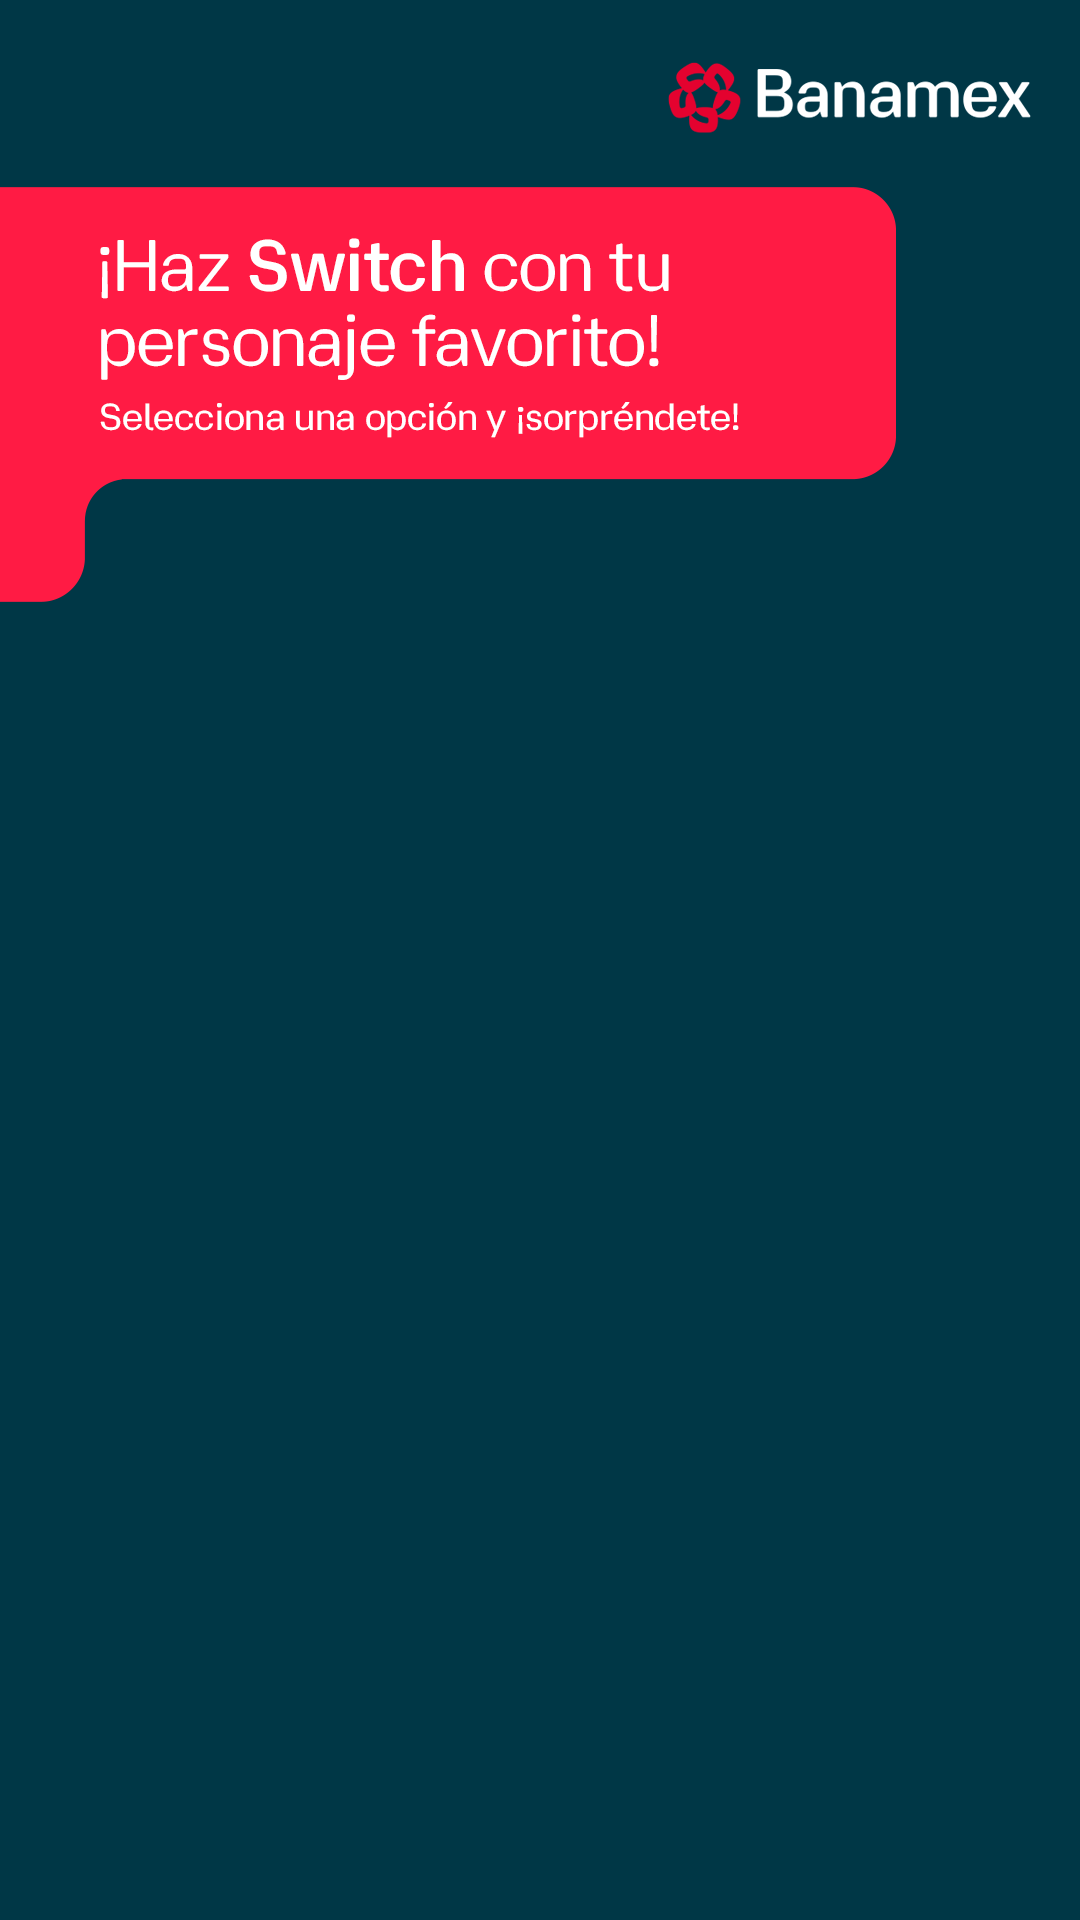
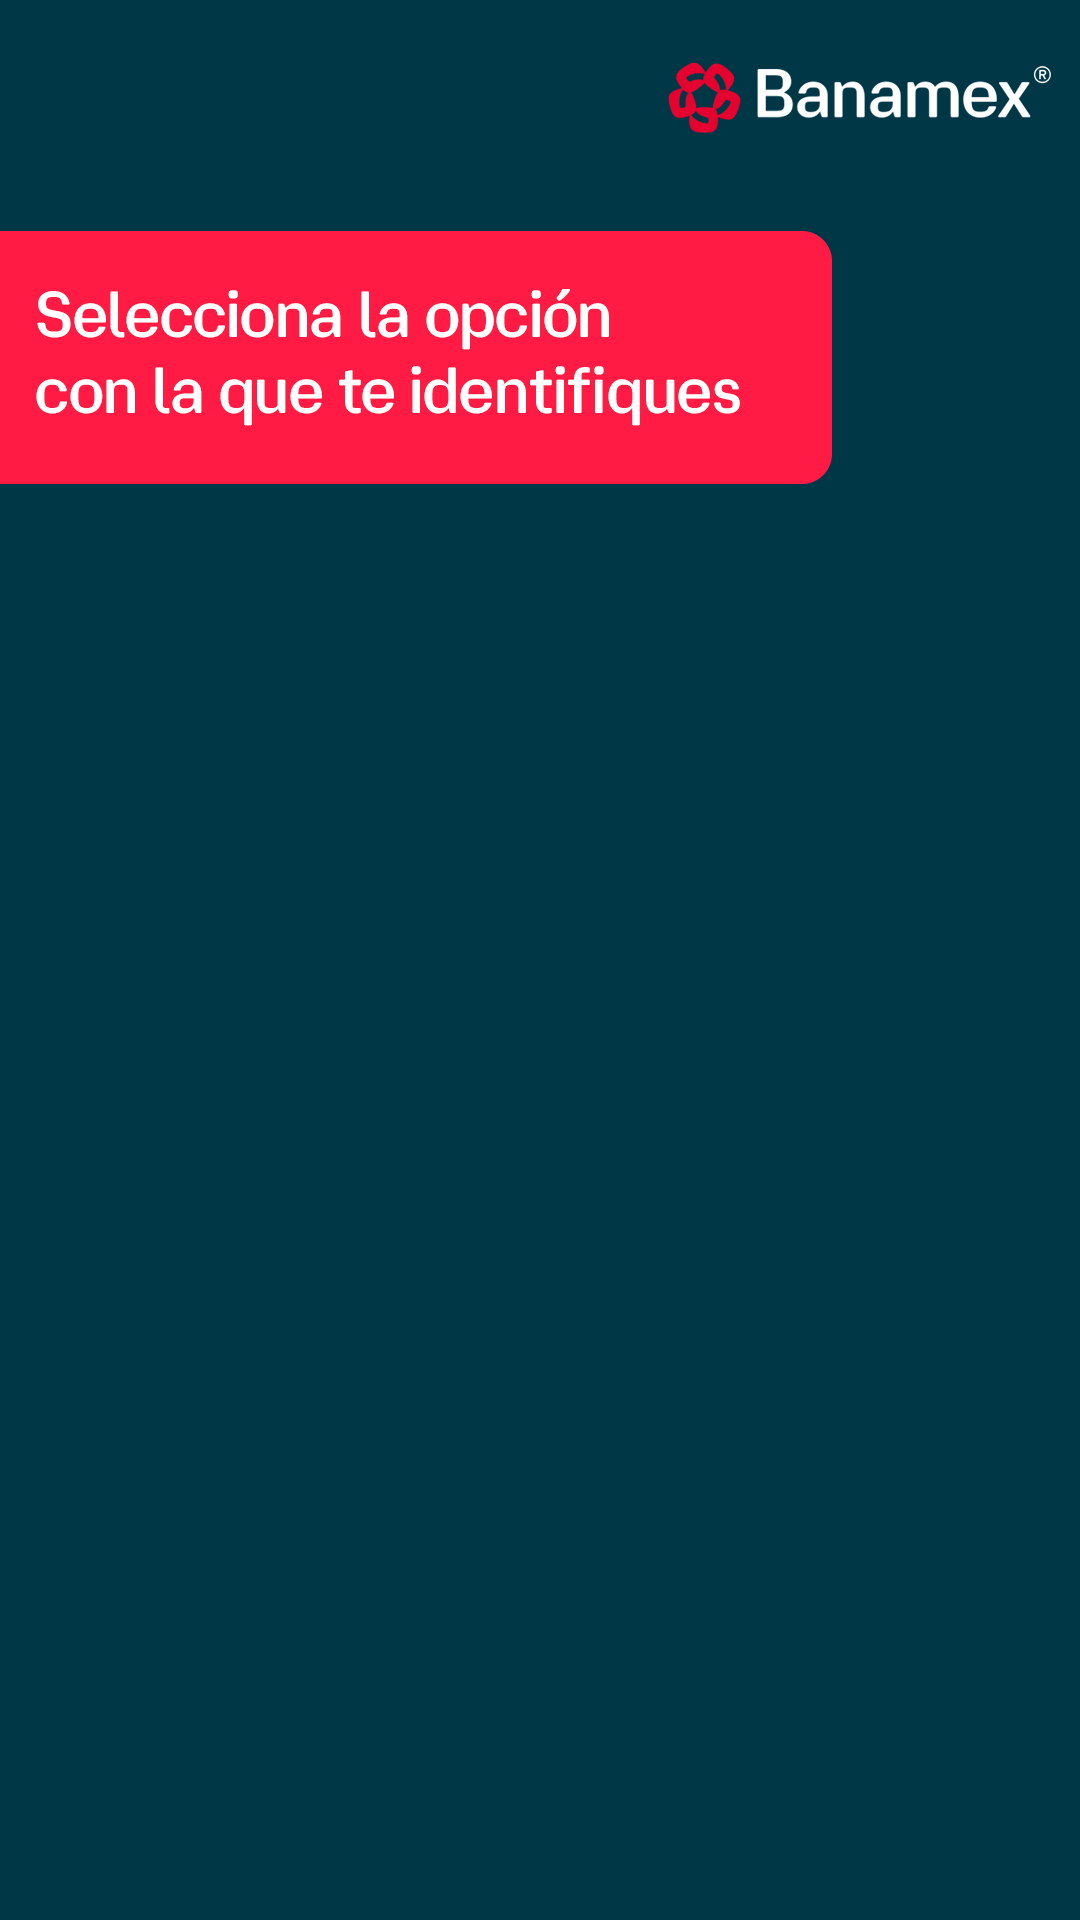
Primer cambio para Tina Turner

Changed region(s): [[0.0, 0.0938, 0.8556, 0.25], [0.0, 0.25, 0.0917, 0.3125]]

diff --git a/templates/select_character.html b/templates/select_character.html
@@ -35,44 +35,44 @@
       background:url("{{ url_for('static', filename='images/Pantalla_selecciona.png') }}") center/cover no-repeat;
     }
 
-    /* === CENTRADO REAL DEL GRID ===
-       - Horizontal: left:50% + translateX(-50%)
-       - Vertical: controla con --v (porcentaje desde arriba)
-    */
+    /* === CENTRADO REAL DEL GRID === */
     .grid-anchor{
-      --v: 54%;              /* <- ajusta este % para mover verticalmente */
+      --v: 52%;              /* Centrado vertical real */
       position:absolute;
       left:50%;
       top:var(--v);
-      transform:translate(-50%, -50%); /* centra respecto al punto (50%, --v) */
-      width:min(1100px, 92vw);
-    }
-
-    /* GRID de personajes */
-    .characters-grid{
-      display:grid;
-      grid-template-columns:repeat(4, minmax(150px, 1fr));
-      gap:25px;
+      transform:translate(-50%, -50%);
       width:100%;
+      display: flex;
+      justify-content: center;
     }
 
-    .character-card{ width:100%; min-width:0; cursor:pointer; transition:.2s ease; }
-    .character-card:hover{ transform:translateY(-6px); }
-    .character-card:active{ transform:translateY(-3px); }
-    .character-card.selected{ outline:4px solid #00bcd4; box-shadow:0 10px 26px rgba(0,188,212,.25); }
+    /* GRID de personajes -> Ahora Flex Column */
+    .characters-grid{
+      display:flex;
+      flex-direction:column;
+      align-items:center;
+      gap:45px; /* Separación entre las dos fotos */
+      width:auto;
+    }
+
+    .character-card{ 
+        width: 280px; 
+        height: 280px; 
+        overflow: hidden; 
+        cursor:pointer; 
+        transition:.3s cubic-bezier(0.25, 0.8, 0.25, 1);
+    }
+    .character-card:hover{ transform:scale(1.05); }
+    .character-card:active{ transform:scale(0.98); }
+    .character-card.selected{ outline:5px solid #fff; box-shadow:0 0 30px rgba(255,255,255,0.6); }
     .character-image{ width:100%; height:100%; display:block; object-fit:cover; }
 
-    /* Responsivo */
-    @media (max-width:1024px){
-      .characters-grid{ grid-template-columns:repeat(4,1fr); gap:18px; }
-    }
-    @media (max-width:768px){
-      .characters-grid{ grid-template-columns:repeat(4,1fr); gap:14px; }
-    }
+    /* Responsivo: Si la pantalla es muy chica, achicar un poco */
     @media (max-width:480px){
-      .characters-grid{ grid-template-columns:repeat(4,1fr); gap:12px; }
+      .character-card{ width: 220px; height: 220px; gap: 30px; }
     }
-
+    
     /* Overlay de carga */
     .loading{
       display:none; position:fixed; inset:0; background:rgba(0,0,0,.8);
@@ -87,33 +87,17 @@
 <body>
   <div class="hero">
     <div class="frame">
-      <div class="grid-anchor" style="--v: 54%;">
+      <div class="grid-anchor">
         <div class="characters-grid">
-          <div class="character-card" data-character="look_a">
-            <img src="{{ url_for('static', filename='images/character_pink.jpg') }}" alt="Look Rosa" class="character-image">
-          </div>
-          <div class="character-card" data-character="look_b">
-            <img src="{{ url_for('static', filename='images/character_blue.jpg') }}" alt="Look Azul" class="character-image">
-          </div>
-          <div class="character-card" data-character="look_c">
-            <img src="{{ url_for('static', filename='images/character_orange.jpg') }}" alt="Look Naranja" class="character-image">
-          </div>
-          <div class="character-card" data-character="look_d">
-            <img src="{{ url_for('static', filename='images/character_green.jpg') }}" alt="Look Verde" class="character-image">
+          
+          <div class="character-card" data-character="look_man">
+            <img src="{{ url_for('static', filename='images/man.png') }}" alt="Hombre" class="character-image">
           </div>
 
-          <div class="character-card" data-character="look_e">
-            <img src="{{ url_for('static', filename='images/character_red_m.jpg') }}" alt="Look Rojo" class="character-image">
+          <div class="character-card" data-character="look_woman">
+            <img src="{{ url_for('static', filename='images/woman.png') }}" alt="Mujer" class="character-image">
           </div>
-          <div class="character-card" data-character="look_f">
-            <img src="{{ url_for('static', filename='images/character_blue_m.jpg') }}" alt="Look Azul" class="character-image">
-          </div>
-          <div class="character-card" data-character="look_g">
-            <img src="{{ url_for('static', filename='images/character_orange_m.jpg') }}" alt="Look Naranja" class="character-image">
-          </div>
-          <div class="character-card" data-character="look_h">
-            <img src="{{ url_for('static', filename='images/character_green_m.jpg') }}" alt="Look Verde" class="character-image">
-          </div>
+
         </div>
       </div>
     </div>

diff --git a/templates/preview.html b/templates/preview.html
@@ -77,20 +77,32 @@
     }
 
     /* Haz los botones auto/estrechos para que no ocupen toda la fila */
-    .btn, .btn_red{
+    .btn{
       display:inline-flex; 
       align-items:center; 
       justify-content:center;
       height:60px; padding:0 22px;                 /* ancho por contenido */
       min-width: 220px;                             /* o lo que prefieras */
       border:0; border-radius:14px;
-      text-decoration:none; color:#fff; cursor:pointer;
+      text-decoration:none; color:#FFFFFF; cursor:pointer;
       margin-inline: 47px 9px;
       transition:transform .2s ease, filter .2s ease;
     }
 
-    .btn{ background:#009CC6; font-family: 'BanamexDisplayBold', sans-serif; font-size: 25px;}
-    .btn_red{ background:#FF1B44; font-family: 'BanamexDisplay', sans-serif; font-size: 25px}
+    .btn_red{
+          display:inline-flex; 
+          align-items:center; 
+          justify-content:center;
+          height:60px; padding:0 22px;                 /* ancho por contenido */
+          min-width: 220px;                             /* o lo que prefieras */
+          border:0; border-radius:14px;
+          text-decoration:none; color:#450a27; cursor:pointer;
+          margin-inline: 47px 9px;
+          transition:transform .2s ease, filter .2s ease;
+    }
+
+    .btn{ background:#FF1B44; font-family: 'BanamexDisplayBold', sans-serif; font-size: 25px;}
+    .btn_red{ background:#FFFFFF; font-family: 'BanamexDisplayBold', sans-serif; font-size: 25px}
 
     .btn:hover, .btn_red:hover{ transform:translateY(-2px); filter:brightness(1.06); }
     .btn:active, .btn_red:active{ transform:none; filter:brightness(.98); }
@@ -98,7 +110,7 @@
     /* Focus visible (accesibilidad) */
     .btn:focus-visible,
     .btn_red:focus-visible {
-      outline: 3px solid #fff;
+      outline: 3px solid #FF1B44;
       outline-offset: 2px;
     }
     

diff --git a/templates/capture.html b/templates/capture.html
@@ -132,6 +132,20 @@
             pointer-events: none;
         }
 
+        /* Nueva pleca superior */
+        .overlay-header {
+            position: fixed;
+            top: 0;
+            left: 0;
+            width: 100%;
+            height: 15%; /* Ajusta según necesites */
+            background: url("{{ url_for('static', filename='images/pleca_banamex.png') }}") no-repeat;
+            background-size: contain;
+            background-position: center top;
+            z-index: 6;
+            pointer-events: none;
+        }
+
 
         /* Flash effect para la captura */
         .flash {
@@ -258,7 +272,10 @@
     <!-- Contador -->
     <div class="countdown-overlay" id="countdown">5</div>
 
-    <!-- Imagen decorativa PNG que sobrepondrás -->
+    <!-- Pleca superior -->
+    <div class="overlay-header"></div>
+
+    <!-- Imagen decorativa PNG que sobrepondrás (Inferior) -->
     <div class="overlay-decoration"></div>
     
     <!-- Flash effect -->

diff --git a/templates/index.html b/templates/index.html
@@ -6,7 +6,7 @@
   <title>Hero con background y botón</title>
   <style>
     :root {
-      --btn-bg: #009CC6;
+      --btn-bg: #FF1B44;
       --btn-fg: #fff;
       --btn-shadow: 0 14px 28px rgba(0,0,0,.22), 0 10px 10px rgba(0,0,0,.14);
       --safe-pad: 45px;
@@ -231,7 +231,7 @@
     <div class="hero">
         <div class="frame">
             <a href="{{ url_for('select_character') }}" class="cta">
-                <span class="palabra1">Hacer</span> <span class="palabra2">Switch</span>
+                <span class="palabra2">Comenzar</span>
             </a>
         </div>
     </div>

diff --git a/templates/qr.html b/templates/qr.html
@@ -64,7 +64,7 @@
       max-width: 100vw;
       aspect-ratio: 9/16;
       /* Tu imagen de fondo con todos los elementos */
-      background: url("{{ url_for('static', filename='images/Pantalla_qr_mentiras.png') }}") center/cover no-repeat;
+      background: url("{{ url_for('static', filename='images/Pantalla_qr.png') }}") center/cover no-repeat;
     }
 
     /* Área donde debe ir el QR - ajusta estos valores según tu imagen */

diff --git a/utils/ai_generation.py b/utils/ai_generation.py
@@ -20,15 +20,7 @@ client = genai.Client(api_key=os.getenv("GOOGLE_API_KEY"))
 
 # Tus prompts por personaje (idénticos a los que ya tienes)
 PROMPTS = {
-    'look_a': """Genera una imagen: Retrato estilo cartel promocional con estas dimensiones 610x 930px. 
-    La persona está delante de un Fondo neón rosa intenso. En un encuadre más amplio (plano general o full-body shot) que muestre la figura completa con espacio libre arriba y a los lados. 
-    Perspectiva con ligera profundidad de campo (efecto de cámara real), manteniendo el enfoque en el sujeto.
-    Vestido rosa brillante con hombreras grandes y falda con mucho vuelo, chaqueta corta a juego, cinturón ancho. 
-    Tacones altos rosas. Peinado recogido con volumen ochentero. Maquillaje llamativo con labios rojos. 
-    Elementos decorativos: stickers de zapatos de tacón, íconos de los 80, teléfono retro, diadema ochentero, revistas de moda estilizadas. 
-    Estética teatral publicitaria, vibrante y colorida. No incluyas ningun texto, ni marcos. Mantén la estética y la iluminación tipo póster publicitario.
-    """,
-    'look_b': """Genera una imagen: Retrato estilo cartel promocional con estas dimensiones 610x 930px. 
+    'look_woman': """Genera una imagen: Retrato estilo cartel promocional con estas dimensiones 610x 930px. 
     La persona está delante de un Fondo azul eléctrico. En un encuadre más amplio (plano general o full-body shot) que muestre la figura completa con espacio libre arriba y a los lados. 
     Perspectiva con ligera profundidad de campo (efecto de cámara real), manteniendo el enfoque en el sujeto.
     Vestuario: leggins negros ajustados con saco largo azul con hombreras, blusa blanca, cinturón ancho dorado. Botines negros. 
@@ -36,75 +28,49 @@ PROMPTS = {
     Elementos decorativos: maletín, cassetes, rayos en estilo pop-art, casetes, rayos neón estilizados, portafolio ochentero. 
     Estética teatral vibrante, alta resolución. No incluyas ningun texto, ni marcos. Mantén la estética y la iluminación tipo póster publicitario.
     """,
-    'look_c': """Genera una imagen: Retrato estilo cartel promocional con estas dimensiones 610x 930px. 
-    La persona está enfrente de un Fondo naranja brillante. En un encuadre más amplio (plano general o full-body shot) que muestre la figura completa con espacio libre arriba y a los lados. 
-    Perspectiva con ligera profundidad de campo (efecto de cámara real), manteniendo el enfoque en el sujeto.
-    Vestuario: chamarra con animal print con hombreras, chaqueta ligera, tacones a juego. 
-    Accesorios grandes (aretes circulares, collares llamativos). Peinado rubio voluminoso con rizos exagerados ochenteros. 
-    Maquillaje intenso con sombras lilas y labios brillantes. Elementos decorativos: máquina de escribir, papeles, gafas neón. 
-    Estética teatral pop ochentera, encuadre vertical. No incluyas ningun texto, ni marcos. Mantén la estética y la iluminación tipo póster publicitario.
-    """,
-    'look_d': """Genera una imagen: Retrato estilo cartel promocional con estas dimensiones 610x 930px. 
-    La persona está delante de un Fondo verde neón. en un encuadre más amplio (plano general o full-body shot) que muestre la figura completa con espacio libre arriba y a los lados. 
-    Perspectiva con ligera profundidad de campo (efecto de cámara real), manteniendo el enfoque en el sujeto.
-    Debe tener Camisón largo verde con hombreras, zapatos discretos ochenteros. 
-    Peinado corto y rizado con volumen. Maquillaje en tonos cálidos, natural pero con acento ochentero. Elementos decorativos: gafas grandes estilo ochentas, libros escolares, 
-    regla gigante pop-art, debe estar un osito de peluche ochentero. 
-    Estética teatral kitsch, vibrante y colorida. No incluyas ningun texto, ni marcos. Mantén la estética y la iluminación tipo póster publicitario.
-    """,
-    'look_e': """Genera una imagen: Retrato estilo cartel promocional con estas dimensiones 610x 930px.
-    La persona esta de frente a un Fondo rojo neón, en un encuadre más amplio (plano general o full-body shot) que muestre la figura completa con espacio libre arriba y a los lados. 
-    Perspectiva con ligera profundidad de campo (efecto de cámara real), manteniendo el enfoque en el sujeto.
-    Vestuario: saco rojo con hombreras, camisa negra, corbata roja, pantalones negros rectos, cinturón elegante. 
-    Debe tener Tennis blancos de bota. Peinado engominado con volumen típico de los 80. Elementos decorativos: lentes de sol neón, micrófono retro, corazones pop-art.
-    Estética teatral publicitaria vibrante, encuadre vertical. No incluyas ningun texto, ni marcos. Mantén la estética y la iluminación tipo póster publicitario.
-    """,
-    'look_f': """Genera una imagen: Retrato estilo cartel promocional con dimensiones 610x930px. 
+    'look_man': """Genera una imagen: Retrato estilo cartel promocional con dimensiones 610x930px. 
     La persona está posando frente a un fondo azul eléctrico, en un encuadre más amplio (plano general o full-body shot) que muestre la figura completa con espacio libre arriba y a los lados. 
     Perspectiva con ligera profundidad de campo (efecto de cámara real), manteniendo el enfoque en el sujeto.
     Vestuario: saco azul con hombreras, camisa negra, corbata azul, pantalones negros rectos, cinturón elegante.
     Debe tener tenis blancos de bota. Peinado engominado con volumen típico de los 80.
     Elementos decorativos: maletín, cassettes, rayos en estilo pop-art, rayos neón estilizados, portafolio ochentero.
     No incluyas ningún texto ni marcos. Mantén la estética y la iluminación tipo póster publicitario.
-    """,
-    'look_g': """Genera una imagen: Retrato estilo cartel promocional con estas dimensiones 610x 930px. 
-    La persona esta posando de frente a un Fondo naranja neón, en un encuadre más amplio (plano general o full-body shot) que muestre la figura completa con espacio libre arriba y a los lados. 
-    Perspectiva con ligera profundidad de campo (efecto de cámara real), manteniendo el enfoque en el sujeto.
-    Vestuario: saco naranja con hombreras debe incluir animal print, camisa negra, corbata naranja, pantalones negros rectos, cinturón elegante.
-    Debe tener Tennis blancos de bota. Peinado engominado con volumen típico de los 80. Elementos decorativos: máquina de escribir, papeles, gafas neón.
-    Estética teatral pop ochentera, encuadre vertical. No incluyas ningun texto, ni marcos. Mantén la estética y la iluminación tipo póster publicitario.
-    """,
-    'look_h': """Genera una imagen: Retrato estilo cartel promocional con estas dimensiones 610x 930px con profundidad de campo 50mm.
-    La persona esta posando de frente a un Fondo verde neón, en un encuadre más amplio (plano general o full-body shot) que muestre la figura completa con espacio libre arriba y a los lados. 
-    Perspectiva con ligera profundidad de campo (efecto de cámara real), manteniendo el enfoque en el sujeto.
-    Vestuario: saco verde con hombreras, camisa negra, corbata verde, pantalones negros rectos, cinturón elegante. 
-    Debe tener Tennis blancos de bota. Peinado engominado con volumen típico de los 80.
-    Elementos decorativos: gafas grandes estilo ochentas, libros escolares, regla gigante pop-art, debe estar un osito de peluche ochentero.
-    Estética teatral kitsch, vibrante y colorida. No incluyas ningun texto, ni marcos. Mantén la estética y la iluminación tipo póster publicitario.
     """
 }
 
 
 def generate_with_gemini(image_path: str, character: str) -> Image.Image:
     user_img = Image.open(image_path).convert("RGB")
-    base = PROMPTS.get(character, PROMPTS['look_a'])
+    # Usa 'look_man' como fallback si no encuentra el character
+    base = PROMPTS.get(character, PROMPTS['look_man'])
     full_prompt = f"{base}"
 
-    resp = client.models.generate_content(
-        model="gemini-2.5-flash-image-preview",
-        contents=[full_prompt, user_img],  # ← texto (str) + PIL.Image
-        config=types.GenerateContentConfig(
-            response_modalities=["IMAGE"],
-            image_config=types.ImageConfig(
-                aspect_ratio="2:3",
-            )
-        )
+    response = client.models.generate_content(
+        model="gemini-2.5-flash-image",
+        contents=[full_prompt, user_img]
     )
     
-    # Devuelve la primera imagen encontrada, sin cambios de tamaño ni avisos
-    for part in resp.candidates[0].content.parts:
-        if getattr(part, "inline_data", None):
-            return Image.open(BytesIO(part.inline_data.data)).convert("RGB")
+    # Manejo de respuesta actualizado según docs
+    if hasattr(response, 'parts'):
+        for part in response.parts:
+            # Check for inline_data (image)
+            if hasattr(part, 'inline_data') and part.inline_data is not None:
+                try:
+                    # Intenta usar .as_image() si devuelve PIL, sino busca sus bytes
+                    img_candidate = part.as_image()
+                    # Si devuelve un objeto de google.genai..., convertimos
+                    if not isinstance(img_candidate, Image.Image):
+                        # Caso: devuelve un google.genai.types.Image
+                        # Intentamos extraer bytes si tiene método .save() a buffer o propiedades raw
+                        # Pero lo más seguro es usar los bytes originales del part.inline_data
+                        return Image.open(BytesIO(part.inline_data.data)).convert("RGB")
+                    return img_candidate
+                except AttributeError:
+                    # Fallback standard extraction
+                    return Image.open(BytesIO(part.inline_data.data)).convert("RGB")
+            # If text, we can ignore or log
+            elif hasattr(part, 'text') and part.text:
+                print(f"Modelo retornó texto: {part.text}")
 
-    # si el modelo devolvió solo texto
+    # Si no encontró imagen
     raise RuntimeError("La respuesta no incluyó imagen generada.")

diff --git a/app.py b/app.py
@@ -112,7 +112,8 @@ def preview(filename):
 # --- QR / descarga ---
 @app.route("/qr/<filename>")
 def qr(filename):
-    BASE_URL = "https://34.226.49.191.sslip.io"  # TODO: cámbialo en prod
+    #BASE_URL = "https://344.226.49.191.sslip.io.226.49.191.sslip.io"  # TODO: cámbialo en prod
+    BASE_URL = "http://127.0.0.1:5000"  # TODO: cámbialo en prod
     download_url = f"{BASE_URL}{url_for('serve_result', filename=filename)}"
 
     qr_img = qrcode.make(download_url)
